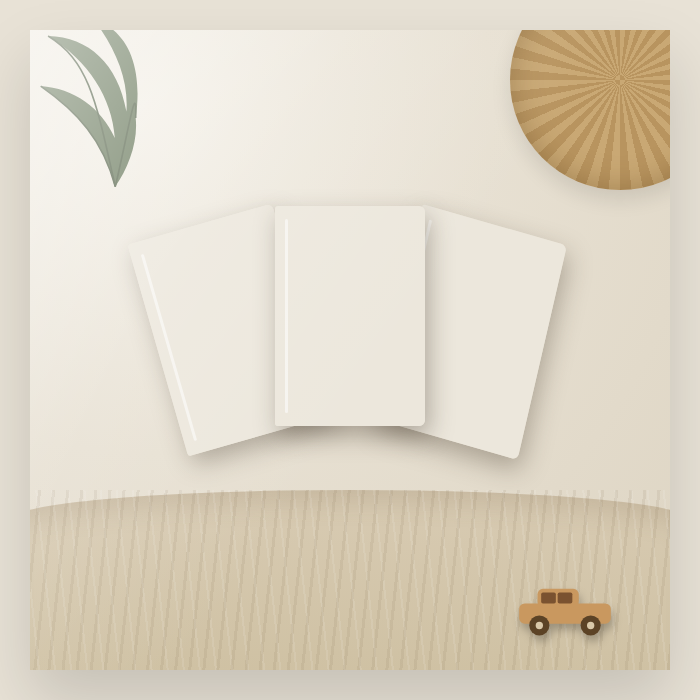
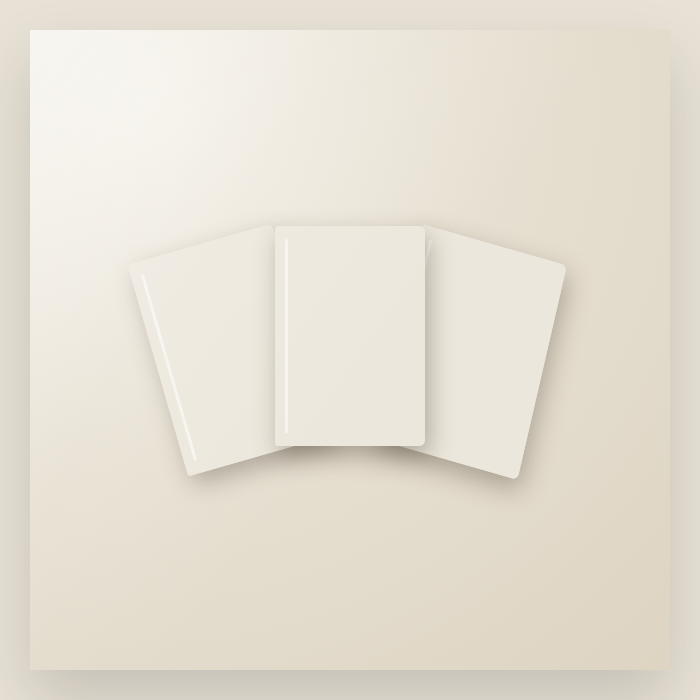
Simplify cover mockup to just the fanned books
Removed the leaf, rattan placemat, fabric drape, and toy car props
to focus on the book covers themselves.

diff --git a/cover-mockup/style.css b/cover-mockup/style.css
@@ -12,6 +12,9 @@ body {
   position: relative;
   width: 640px;
   height: 640px;
+  display: flex;
+  align-items: center;
+  justify-content: center;
   background: radial-gradient(circle at 18% 12%, #f3efe6 0%, #e7e0d2 45%, #ddd4c2 100%);
   overflow: hidden;
   box-shadow: 0 30px 60px rgba(0,0,0,0.15);
@@ -25,40 +28,11 @@ body {
   z-index: 5;
 }
 
-/* Leaf, top-left */
-.leaf {
-  position: absolute;
-  top: -20px;
-  left: -10px;
-  width: 160px;
-  height: 180px;
-  transform: rotate(-10deg);
-  opacity: 0.9;
-  z-index: 1;
-}
-
-/* Rattan placemat, top-right */
-.rattan {
-  position: absolute;
-  top: -60px;
-  right: -60px;
-  width: 220px;
-  height: 220px;
-  border-radius: 50%;
-  background:
-    repeating-conic-gradient(from 0deg, #c9a874 0deg 6deg, #b8945f 6deg 12deg);
-  box-shadow: inset 0 0 30px rgba(90, 60, 20, 0.35), 0 10px 20px rgba(0,0,0,0.1);
-  z-index: 1;
-}
-
 /* Books */
 .books {
-  position: absolute;
-  left: 50%;
-  bottom: 230px;
+  position: relative;
   width: 0;
   height: 0;
-  z-index: 3;
 }
 
 .book {
@@ -92,65 +66,21 @@ body {
 
 .book-left {
   left: -195px;
-  bottom: 0px;
+  bottom: -110px;
   transform: rotate(-16deg);
   z-index: 1;
 }
 
 .book-center {
   left: -75px;
-  bottom: 14px;
+  bottom: -96px;
   transform: rotate(0deg);
   z-index: 3;
 }
 
 .book-right {
   left: 45px;
-  bottom: -2px;
+  bottom: -112px;
   transform: rotate(13deg) skewY(3deg);
   z-index: 2;
-}
-
-/* Beige fabric drape at bottom */
-.fabric {
-  position: absolute;
-  left: -20px;
-  right: -20px;
-  bottom: -40px;
-  height: 220px;
-  background: linear-gradient(180deg, #d8cbb3 0%, #cdbfa0 100%);
-  border-radius: 50% 50% 0 0 / 30px 30px 0 0;
-  box-shadow: inset 0 12px 25px rgba(120, 100, 70, 0.18);
-  z-index: 2;
-}
-
-.fabric::before {
-  content: "";
-  position: absolute;
-  inset: 0;
-  background:
-    repeating-linear-gradient(
-      96deg,
-      rgba(120,100,70,0.10) 0px,
-      rgba(120,100,70,0.10) 3px,
-      transparent 3px,
-      transparent 14px
-    ),
-    repeating-linear-gradient(
-      84deg,
-      rgba(255,255,255,0.10) 0px,
-      rgba(255,255,255,0.10) 2px,
-      transparent 2px,
-      transparent 16px
-    );
-}
-
-/* Wooden toy car, bottom-right */
-.toy-car {
-  position: absolute;
-  bottom: 30px;
-  right: 50px;
-  width: 110px;
-  z-index: 4;
-  filter: drop-shadow(2px 6px 4px rgba(0,0,0,0.25));
 }

diff --git a/cover-mockup/index.html b/cover-mockup/index.html
@@ -9,15 +9,6 @@
   <div class="stage">
     <div class="light-sweep"></div>
 
-    <svg class="leaf" viewBox="0 0 200 220" xmlns="http://www.w3.org/2000/svg">
-      <path d="M100 220 C 95 160 70 120 30 80 C 70 90 100 120 110 160 C 115 110 95 60 50 20 C 100 30 130 70 130 130 C 140 90 130 50 110 10 C 150 30 160 80 140 140 C 138 170 120 200 100 220 Z" fill="#5c6e4f"/>
-      <path d="M100 220 C 95 160 70 120 30 80" stroke="#46563b" stroke-width="2" fill="none"/>
-      <path d="M100 220 C 95 110 95 60 50 20" stroke="#46563b" stroke-width="2" fill="none"/>
-      <path d="M100 220 C 130 150 150 90 140 140" stroke="#46563b" stroke-width="2" fill="none"/>
-    </svg>
-
-    <div class="rattan"></div>
-
     <div class="books">
       <div class="book book-left">
         <div class="cover" style="--cover: none;"></div>
@@ -32,19 +23,6 @@
         <div class="spine-highlight"></div>
       </div>
     </div>
-
-    <div class="fabric"></div>
-
-    <svg class="toy-car" viewBox="0 0 120 70" xmlns="http://www.w3.org/2000/svg">
-      <rect x="10" y="30" width="100" height="22" rx="6" fill="#c9985f"/>
-      <rect x="30" y="14" width="45" height="20" rx="6" fill="#c9985f"/>
-      <rect x="34" y="18" width="16" height="12" rx="2" fill="#7a5230"/>
-      <rect x="52" y="18" width="16" height="12" rx="2" fill="#7a5230"/>
-      <circle cx="32" cy="54" r="11" fill="#5c4326"/>
-      <circle cx="32" cy="54" r="4" fill="#d9c8a9"/>
-      <circle cx="88" cy="54" r="11" fill="#5c4326"/>
-      <circle cx="88" cy="54" r="4" fill="#d9c8a9"/>
-    </svg>
   </div>
 </body>
 </html>
